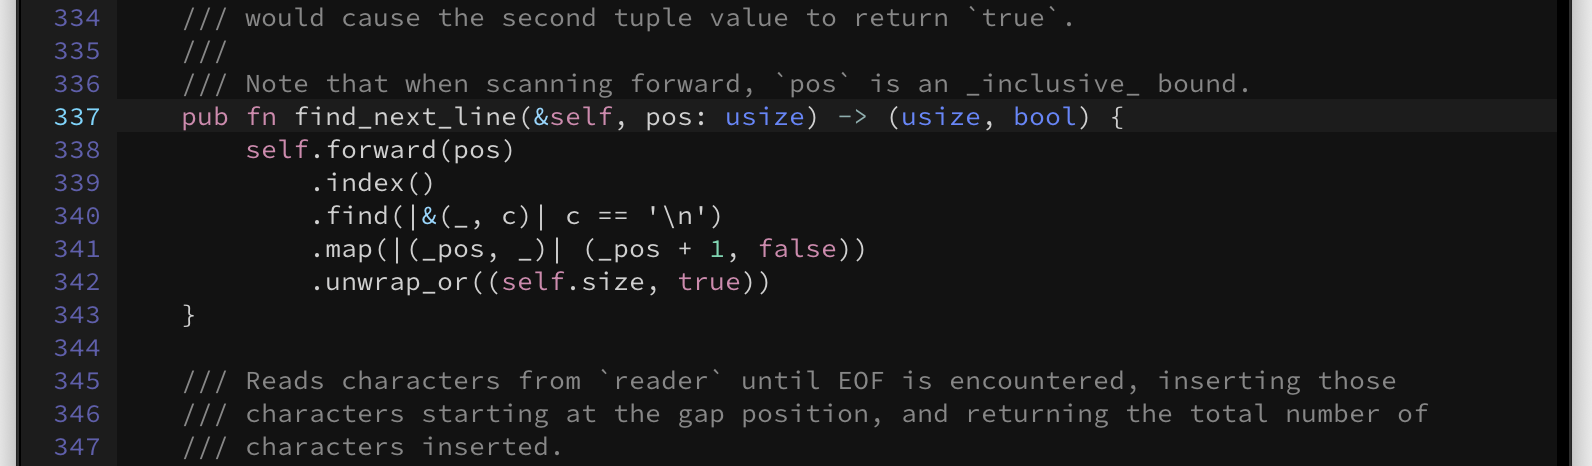
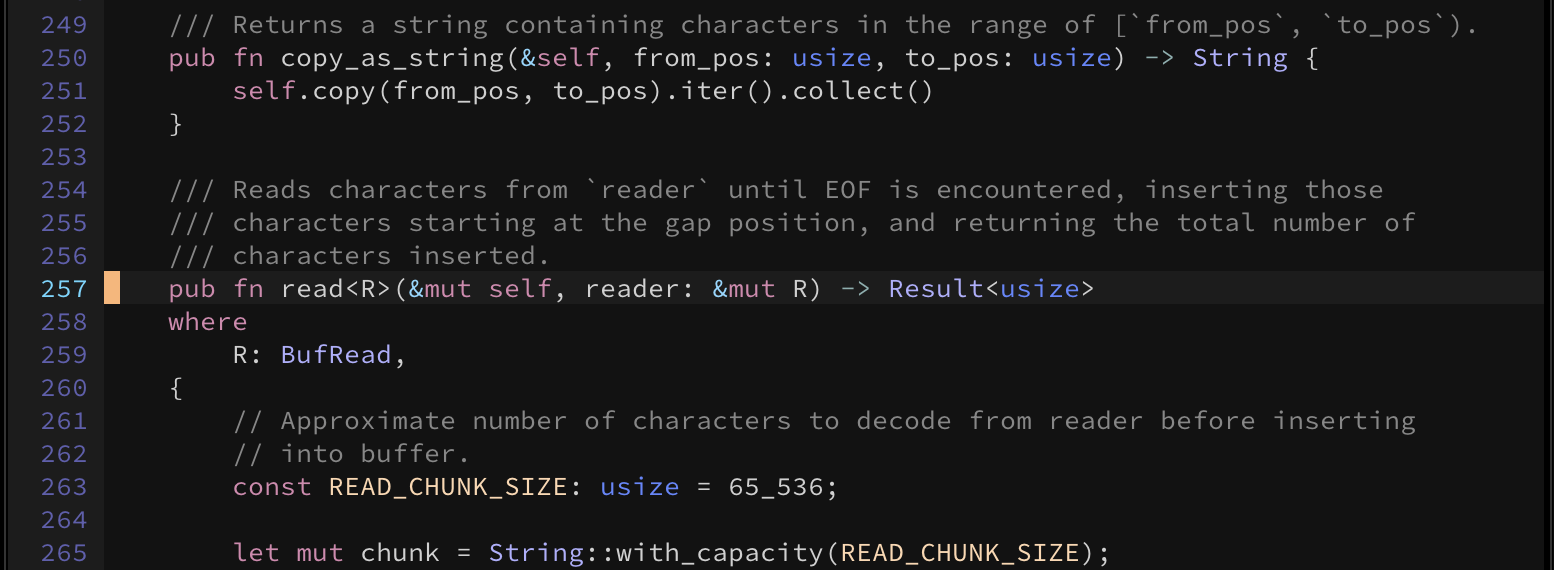
display margin gutters when scrolling engine is enabled

diff --git a/src/render.rs b/src/render.rs
@@ -1165,7 +1165,7 @@ mod wrapping {
             // Create pen to format characters.
             let pen = self
                 .styler
-                .pen(self.cursor, self.top_row.line + 1, selected);
+                .pen(self.cursor, self.cur_row.line + 1, selected);
 
             // Initialize spot representing top-left cell.
             let spot = Spot::new(self, tok, syn);
@@ -1504,6 +1504,12 @@ mod scrolling {
     }
 
     impl Engine {
+        /// Gutter character at left margin.
+        const GUTTER_LEFT: char = '\u{25c0}';
+
+        /// Gutter character at right margin.
+        const GUTTER_RIGHT: char = '\u{25b6}';
+
         /// Creates a new rendering engine with an unattached window using `config`
         /// and `buffer`.
         pub fn new(config: ConfigurationRef, buffer: BufferRef) -> Engine {
@@ -1543,21 +1549,32 @@ mod scrolling {
             let color = spot.syn.color();
 
             let spot = if c == '\n' {
-                if spot.pos < spot.start_pos {
-                    // Character is left of left margin, hence not visible, so just
-                    // fill entire line with blanks.
-                    canvas.fill_cell_from(row, col, pen.as_text(' ', spot.pos, row, color));
+                if spot.pos <= spot.start_pos && spot.offset > 0 {
+                    // `\n` is left of or at left margin, hence not visible, so display
+                    // left gutter and fill remaining line with blanks.
+                    canvas.set_cell(row, col, pen.as_gutter(Self::GUTTER_LEFT));
+                    canvas.fill_cell_from(row, col + 1, pen.as_text(' ', spot.pos, row, color));
                 } else if spot.col < self.cols {
-                    // Character is visible on display, so render it and fill remaining
-                    // line with blanks.
+                    // `\n` is visible on display, so render it and fill remaining line
+                    // with blanks.
                     canvas.set_cell(row, col, pen.as_text(c, spot.pos, row, color));
                     canvas.fill_cell_from(row, col + 1, pen.as_text(' ', spot.pos, row, color));
                 }
                 spot.next_line()
             } else {
-                if spot.pos >= spot.start_pos && spot.col < self.cols {
-                    // Character is visible on display, so render it.
-                    canvas.set_cell(row, col, pen.as_text(c, spot.pos, row, color));
+                if spot.pos == spot.start_pos && spot.offset > 0 {
+                    // Leftmost column implied since pos and start_pos are equal, and text
+                    // exists left of left margin, so display left gutter.
+                    canvas.set_cell(row, col, pen.as_gutter(Self::GUTTER_LEFT));
+                } else if spot.pos >= spot.start_pos {
+                    if spot.col == self.cols - 1 {
+                        // Character is at right margin, so minimally `\n` must follow, so
+                        // display right gutter.
+                        canvas.set_cell(row, col, pen.as_gutter(Self::GUTTER_RIGHT));
+                    } else if spot.col < self.cols {
+                        // Character is visible on display, so render it.
+                        canvas.set_cell(row, col, pen.as_text(c, spot.pos, row, color));
+                    }
                 }
                 spot.next()
             };
@@ -2018,7 +2035,7 @@ mod scrolling {
             // Create pen to format characters.
             let pen = self
                 .styler
-                .pen(self.cursor, self.top_row.line + 1, selected);
+                .pen(self.cursor, self.cur_row.line + 1, selected);
 
             // Initialize spot representing top-left cell.
             let spot = Spot::new(self, tok, syn);

diff --git a/src/config.rs b/src/config.rs
@@ -69,6 +69,7 @@ pub struct Theme {
     pub select_bg: u8,
     pub spotlight_bg: u8,
     pub whitespace_fg: u8,
+    pub gutter_fg: u8,
     pub accent_fg: u8,
     pub echo_fg: u8,
     pub prompt_fg: u8,
@@ -126,6 +127,9 @@ struct ExternalTheme {
 
     #[serde(rename = "whitespace-fg")]
     whitespace_fg: Option<ColorValue>,
+
+    #[serde(rename = "gutter-fg")]
+    gutter_fg: Option<ColorValue>,
 
     #[serde(rename = "accent-fg")]
     accent_fg: Option<ColorValue>,
@@ -207,6 +211,7 @@ impl Theme {
     const SELECT_BG: u8 = 88;
     const SPOTLIGHT_BG: u8 = 234;
     const WHITSPACE_FG: u8 = 243;
+    const GUTTER_FG: u8 = 208;
     const ACCENT_FG: u8 = 180;
     const ECHO_FG: u8 = 208;
     const PROMPT_FG: u8 = 102;
@@ -238,6 +243,7 @@ impl Theme {
             self.select_bg = resolve(self.select_bg, &ext.select_bg, colors)?;
             self.spotlight_bg = resolve(self.spotlight_bg, &ext.spotlight_bg, colors)?;
             self.whitespace_fg = resolve(self.whitespace_fg, &ext.whitespace_fg, colors)?;
+            self.gutter_fg = resolve(self.gutter_fg, &ext.gutter_fg, colors)?;
             self.accent_fg = resolve(self.accent_fg, &ext.accent_fg, colors)?;
             self.echo_fg = resolve(self.echo_fg, &ext.echo_fg, colors)?;
             self.prompt_fg = resolve(self.prompt_fg, &ext.prompt_fg, colors)?;
@@ -261,6 +267,7 @@ impl Default for Theme {
             select_bg: Self::SELECT_BG,
             spotlight_bg: Self::SPOTLIGHT_BG,
             whitespace_fg: Self::WHITSPACE_FG,
+            gutter_fg: Self::GUTTER_FG,
             accent_fg: Self::ACCENT_FG,
             echo_fg: Self::ECHO_FG,
             prompt_fg: Self::PROMPT_FG,

diff --git a/src/style.rs b/src/style.rs
@@ -19,6 +19,9 @@ pub struct Styler {
 
     /// Color of text with no special treatment.
     text_color: Color,
+
+    /// Color of text in margin gutters.
+    gutter_color: Color,
 }
 
 /// A _pen_ captures state information that is used to format [cells](Cell) during the
@@ -44,12 +47,14 @@ impl Styler {
         let margin_color = Color::new(config.theme.margin_fg, config.theme.margin_bg);
         let line_color = Color::new(config.theme.line_fg, config.theme.margin_bg);
         let text_color = Color::new(config.theme.text_fg, config.theme.text_bg);
+        let gutter_color = Color::new(config.theme.gutter_fg, config.theme.text_bg);
 
         Styler {
             config,
             margin_color,
             line_color,
             text_color,
+            gutter_color,
         }
     }
 
@@ -110,6 +115,12 @@ impl<'a> Pen<'a> {
     #[inline]
     pub fn as_blank(&self) -> Cell {
         Cell::new(' ', self.styler.text_color)
+    }
+
+    /// Formats `c` using the gutter color.
+    #[inline]
+    pub fn as_gutter(&self, c: char) -> Cell {
+        Cell::new(c, self.styler.gutter_color)
     }
 
     /// Formats `c` using a color depending on the current rendering context.

diff --git a/src/help.rs b/src/help.rs
@@ -251,12 +251,13 @@ fn prepare_colors(colors: &HashMap<String, u8>) -> IndexMap<String, u8> {
 /// Returns a TOML-formatted list of theme color names and values.
 pub fn theme_content(theme: &Theme) -> String {
     type ColorFn = fn(&Theme) -> u8;
-    const COLORS: [(&str, ColorFn); 15] = [
+    const COLORS: [(&str, ColorFn); 16] = [
         ("text-fg", |t| t.text_fg),
         ("text-bg", |t| t.text_bg),
         ("select-bg", |t| t.select_bg),
         ("spotlight-bg", |t| t.spotlight_bg),
         ("whitespace-fg", |t| t.whitespace_fg),
+        ("gutter-fg", |t| t.gutter_fg),
         ("accent-fg", |t| t.accent_fg),
         ("echo-fg", |t| t.echo_fg),
         ("prompt-fg", |t| t.prompt_fg),

diff --git a/README.md b/README.md
@@ -174,9 +174,11 @@ The banner bar for each open window shows the source of the content, which is us
 
 The source is followed by a syntax name enclosed in `(` and `)`. The name `Text` is used when no syntax definition exists. There is no highlighting for `Text` content.
 
-To the right of the syntax name is an area that shows certain editor settings surrounded by a single `-` on both edges. The first character indicates how _end-of-line_ characters are written to storage: `/` means that `\n` (LF) is written, and `\` means that `\r\n` (CRLF) is written. The second character indicates the _tab_ mode: `t` means _soft_ tabs are enabled, and `T` means _hard_ tabs. By default, these settings are `/` and `t`, but can be changed globally on the command line or via configuration, or changed on a per-buffer basis.
+To the right of the syntax name is an area justified towards the right margin that shows certain editor settings surrounded by a single `-` on both edges.
 
-To right of the editor settings in the area justified towards the right margin and surrounded by `-` is the hexidecimal value of the Unicode code point under the cursor. If the cursor is at EOF, then `000000` is displayed.
+- The first character indicates how _end-of-line_ characters are written to storage: `/` means that `\n` (LF) is written, and `\` means that `\r\n` (CRLF) is written.
+- The second character indicates the _tab_ mode: `t` means _soft_ tabs are enabled, and `T` means _hard_ tabs. By default, these settings are `/` and `t`, but can be changed globally on the command line or via configuration, or changed on a per-buffer basis.
+- Separated by `-` is the hexidecimal value of the Unicode code point under the cursor. If the cursor is at EOF, then `000000` is displayed.
 
 Finally, on the edge of the right margin is the line and column number under the cursor. If the line number or column number is larger than `9999999`, then all dashes are displayed, respectively.
 
@@ -187,6 +189,10 @@ The example below shows the file `~/repo/ped/src/buffer.rs` being edited with `R
 When a buffer has unsaved modifications, the color of the _source_ changes.
 
 ![](content/ped-banner-dirty.png)
+
+By default, `ped` will wrap long lines unless `--no-wrap` is specified or the setting `wrap = false` exists in the configuration file. When line wrapping is disabled, the text on the display will scroll left or right depending on the movement of the cursor. If text exists right of the right margin, then the gutter character `▶` is displayed. Likewise, if text exists left of the left margin, then the gutter character `◀` is shown.
+
+![](content/ped-no-wrap.png)
 
 ## Limitations
 

diff --git a/CHANGELOG.md b/CHANGELOG.md
@@ -8,6 +8,7 @@ This file contains relevant information for each release. Please refer to the co
 
 - CLI options `--wrap` (default) and `--no-wrap` that indicate whether long lines either wrap or scroll horizontally
 - Configuration option `wrap` to complement CLI options
+- Configuration color `gutter-fg` used for margin gutters, which is only applicable when `--no-wrap` is specified
 
 ### [0.39.0](https://github.com/davidledwards/ped/tree/v0.39.0) | `2026-03-07`
 
